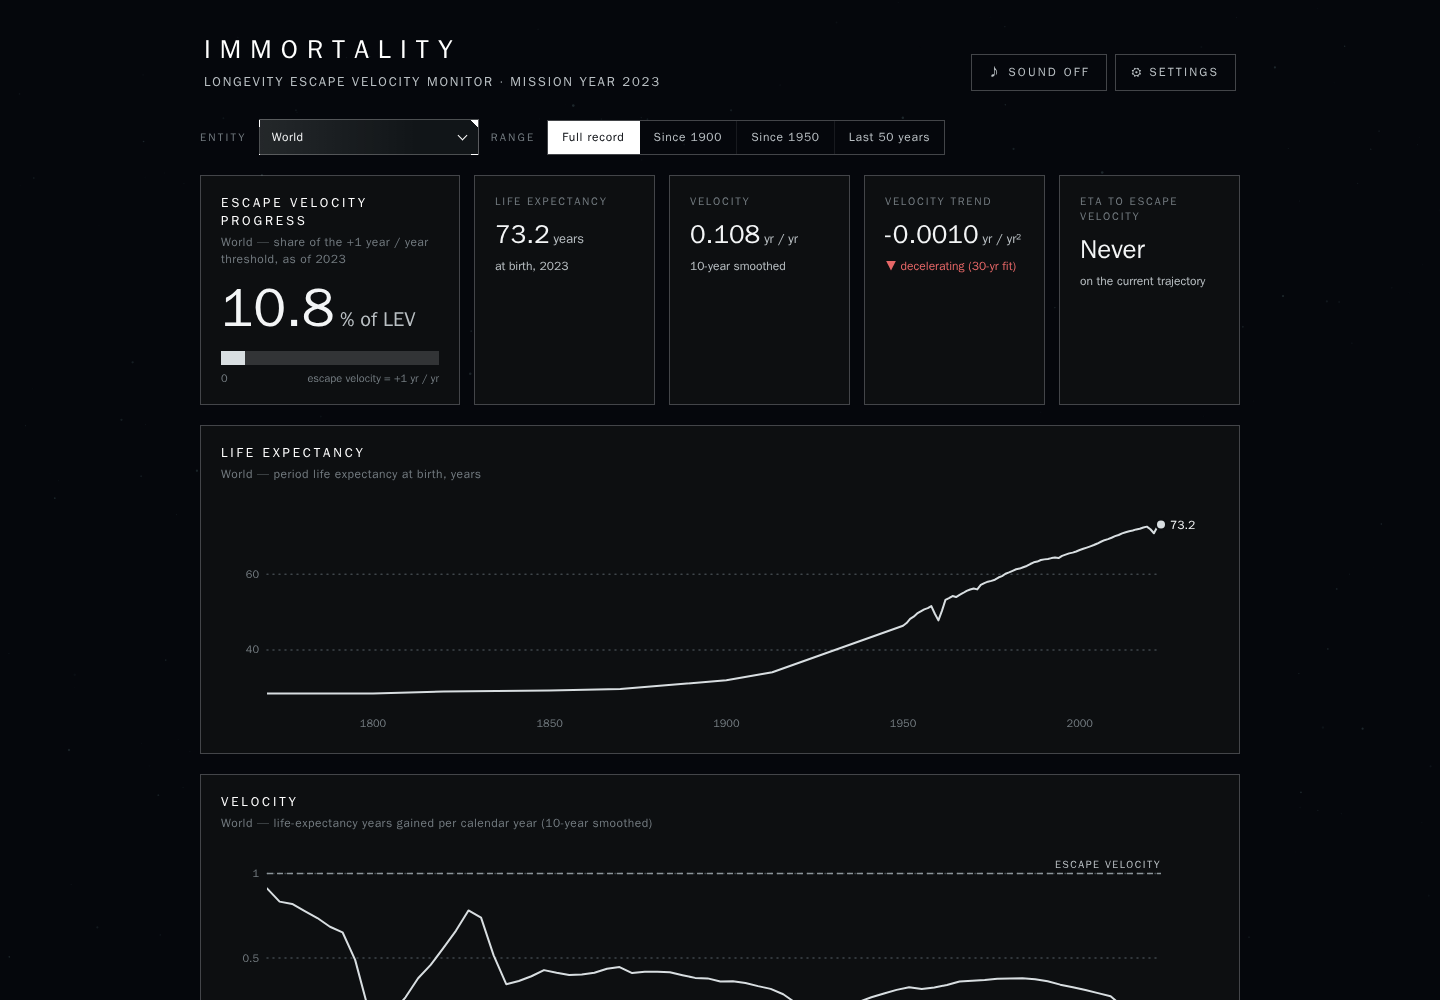
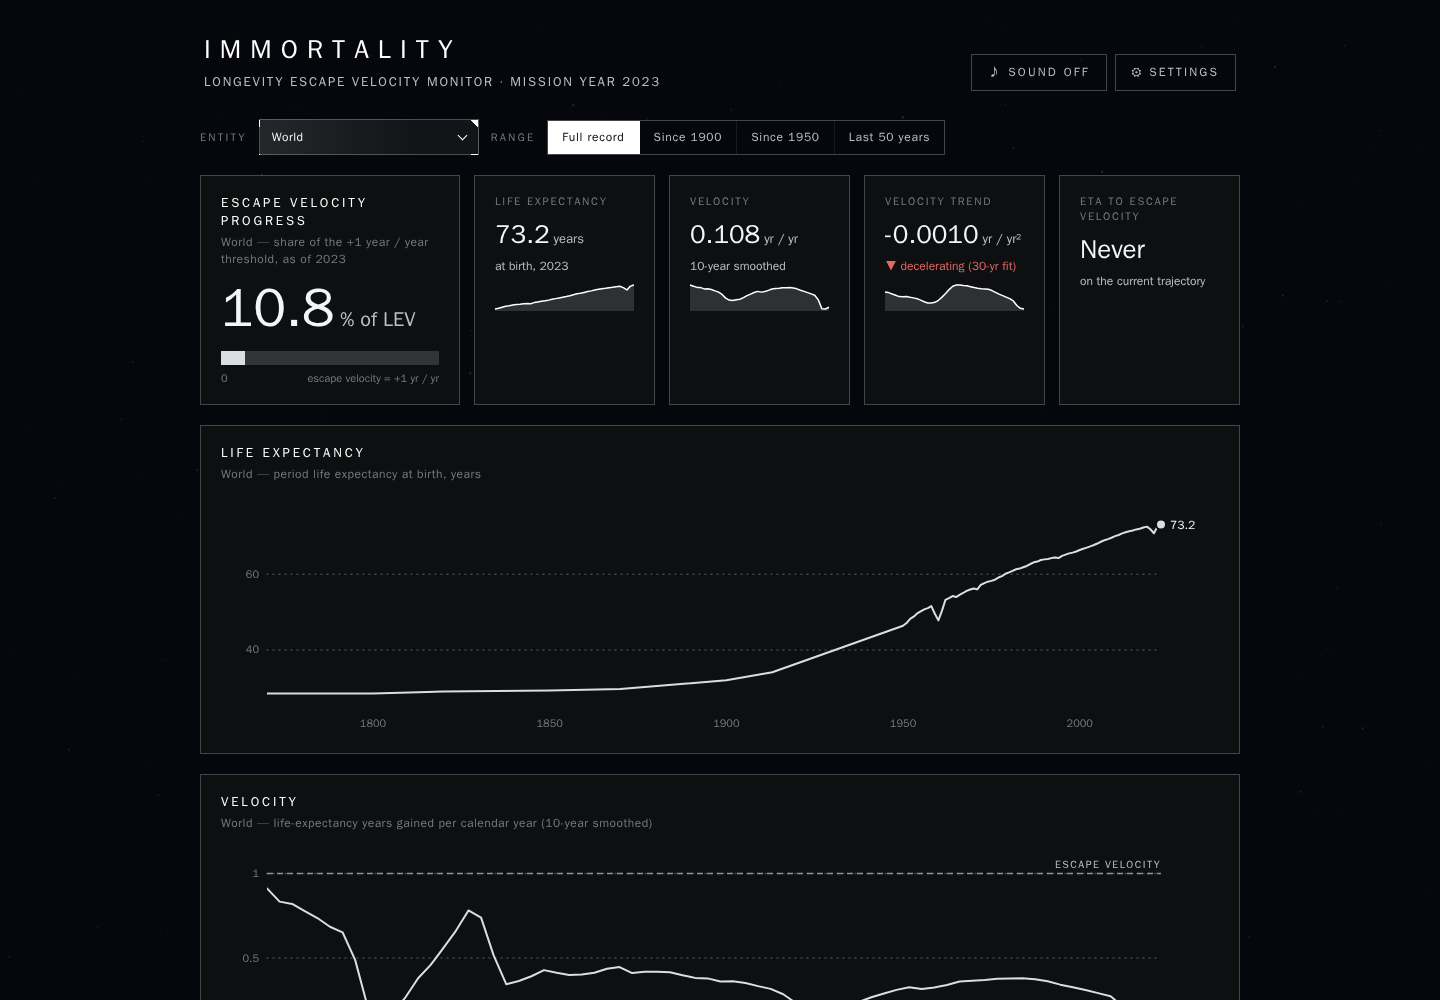
docs: refresh screenshots and README axes for the new frame, titles, backgrounds and Resonance preset

Changed region(s): [[0.4688, 0.279, 0.7188, 0.31], [0.3438, 0.279, 0.4375, 0.31]]

diff --git a/README.md b/README.md
@@ -37,10 +37,10 @@ next to the dashboard. The axes were collected from
 | Group | Axes |
 | --- | --- |
 | Color | 12 color systems: Mission teal, Glitchy violet, Solar amber, Signal mono, Tron cyan, Ares red, Clu orange, Athena gold, Aphrodite pink, Poseidon blue, Soul cyan, ZK matrix |
-| Panels | 13 panel materials (gradient, glass, frosted, flat, transparent, brushed steel, brass, copper, walnut wood, carbon fibre, holographic, black marble, concrete) with material opacity and backdrop blur; glow (none → heavy); frame shape (corner brackets, Arwes Octagon / Kranox / Nefrex SVG frames, lines, underline, HUD bracket, plain); chamfer size; border width; panel shadow; density; progress meter (bar, segmented, ring) |
-| Type & text | typeface pairs (system, mono, Orbitron, Electrolize, Chakra Petch, Titillium, terminal), text size, heading case, title effect (decipher, typewriter with caret, glitch) |
-| Scene & overlays | 18 animated backgrounds (stars, grids, galaxy, orbits, asteroids, dot matrix, moving lines, energy puffs, circuit board, data rain, nebula, aurora curtains, warp drive, hex lattice, radar sweep, constellation network), 7 backdrop gradients, background intensity and speed, CRT scanlines, scan sweep, vignette, flicker, film grain, pointer illuminator |
-| HUD & charts | status rail, start-up intro (boot sequence or "Intercept incoming transmission?" prompt), chart trace (line, area, neon, step), gridlines, line width |
+| Panels | 13 panel materials (gradient, glass, frosted, flat, transparent, brushed steel, brass, copper, walnut wood, carbon fibre, holographic, black marble, concrete) with material opacity and backdrop blur; glow (none → heavy); frame shape (corner brackets, Arwes Octagon / Kranox / Nefrex / Nero SVG frames, lines, underline, HUD bracket, plain); chamfer size; border width; panel shadow; density; progress meter (bar, segmented, ring) |
+| Type & text | typeface pairs (system, mono, Orbitron, Electrolize, Chakra Petch, Titillium, terminal), text size, heading case, title decoration (Arwes rule, zknet bar, Soul Extract `//`), title effect (decipher, typewriter with caret, glitch) |
+| Scene & overlays | 21 animated backgrounds (stars, grids, galaxy, orbits, asteroids, dot matrix, moving lines, energy puffs, circuit board, data rain, nebula, aurora curtains, warp drive, hex lattice, radar sweep, constellation network, Arwes grid lines, Soul Extract signal rails, and a sound resonance ring that ripples with every interface cue), 7 backdrop gradients, background intensity and speed, CRT scanlines, scan sweep, vignette, flicker, film grain, pointer illuminator |
+| HUD & charts | status rail, start-up intro (boot sequence or "Intercept incoming transmission?" prompt), chart trace (line, area, neon, step), gridlines, line width, stat-card sparklines, counting numbers |
 | Controls & data | skinned dropdowns everywhere, panel hover (glow, lift, light sweep), pointer cursor (crosshair, HUD reticle), data table style (lined, zebra, grid, terminal), scrollbars (thin, HUD rail, block) |
 | Motion | animations, panel entrance (assemble, fade, scan, flicker), staggered reveal, animation speed |
 | Audio | sound on/off, master volume, tone, room reverb, pitch variation, positional stereo, and several sounds per action (played at random, in turn or layered) chosen from a library of 26 synthesized sounds with neutral names (Quartz, Cobalt, Tungsten, Opal, Sonar, …) for hover, buttons, switches, selections, chart scanner, opening, closing, text effects, intro and notifications |
@@ -50,7 +50,8 @@ To find a good combination quickly:
 - **Presets** apply a complete look in one click: Poseidon (the default),
   Mission control (the original dashboard), The Grid, Ares, Arwes, Soul
   Extract, Glitchy, ZK matrix, Foundry (brushed steel and brass), Study
-  (walnut panels and soft wooden sounds) and Quiet.
+  (walnut panels and soft wooden sounds), Quiet and Resonance (Nero frames
+  over the sound resonance background).
 - **Randomize** shuffles the visual axes (comfort settings such as motion and
   volume are kept).
 - **Copy share link** puts the current combination into a `#ui=` URL; opening
@@ -68,8 +69,8 @@ interaction. `experiments/list-axes.ts` prints the full axis catalog and
 | ![Poseidon](docs/screenshots/preset-poseidon.png?raw=true) | ![Mission control](docs/screenshots/preset-mission.png?raw=true) | ![The Grid](docs/screenshots/preset-grid.png?raw=true) | ![Ares](docs/screenshots/preset-ares.png?raw=true) |
 | **Arwes** | **Soul Extract** | **Glitchy** | **ZK matrix** |
 | ![Arwes](docs/screenshots/preset-arwes.png?raw=true) | ![Soul Extract](docs/screenshots/preset-soulextract.png?raw=true) | ![Glitchy](docs/screenshots/preset-glitchy.png?raw=true) | ![ZK matrix](docs/screenshots/preset-zknet.png?raw=true) |
-| **Foundry** | **Study** | **Quiet** | |
-| ![Foundry](docs/screenshots/preset-foundry.png?raw=true) | ![Study](docs/screenshots/preset-study.png?raw=true) | ![Quiet](docs/screenshots/preset-minimal.png?raw=true) | |
+| **Foundry** | **Study** | **Quiet** | **Resonance** |
+| ![Foundry](docs/screenshots/preset-foundry.png?raw=true) | ![Study](docs/screenshots/preset-study.png?raw=true) | ![Quiet](docs/screenshots/preset-minimal.png?raw=true) | ![Resonance](docs/screenshots/preset-resonance.png?raw=true) |
 
 ![Panel materials](docs/screenshots/materials.png?raw=true)
 
